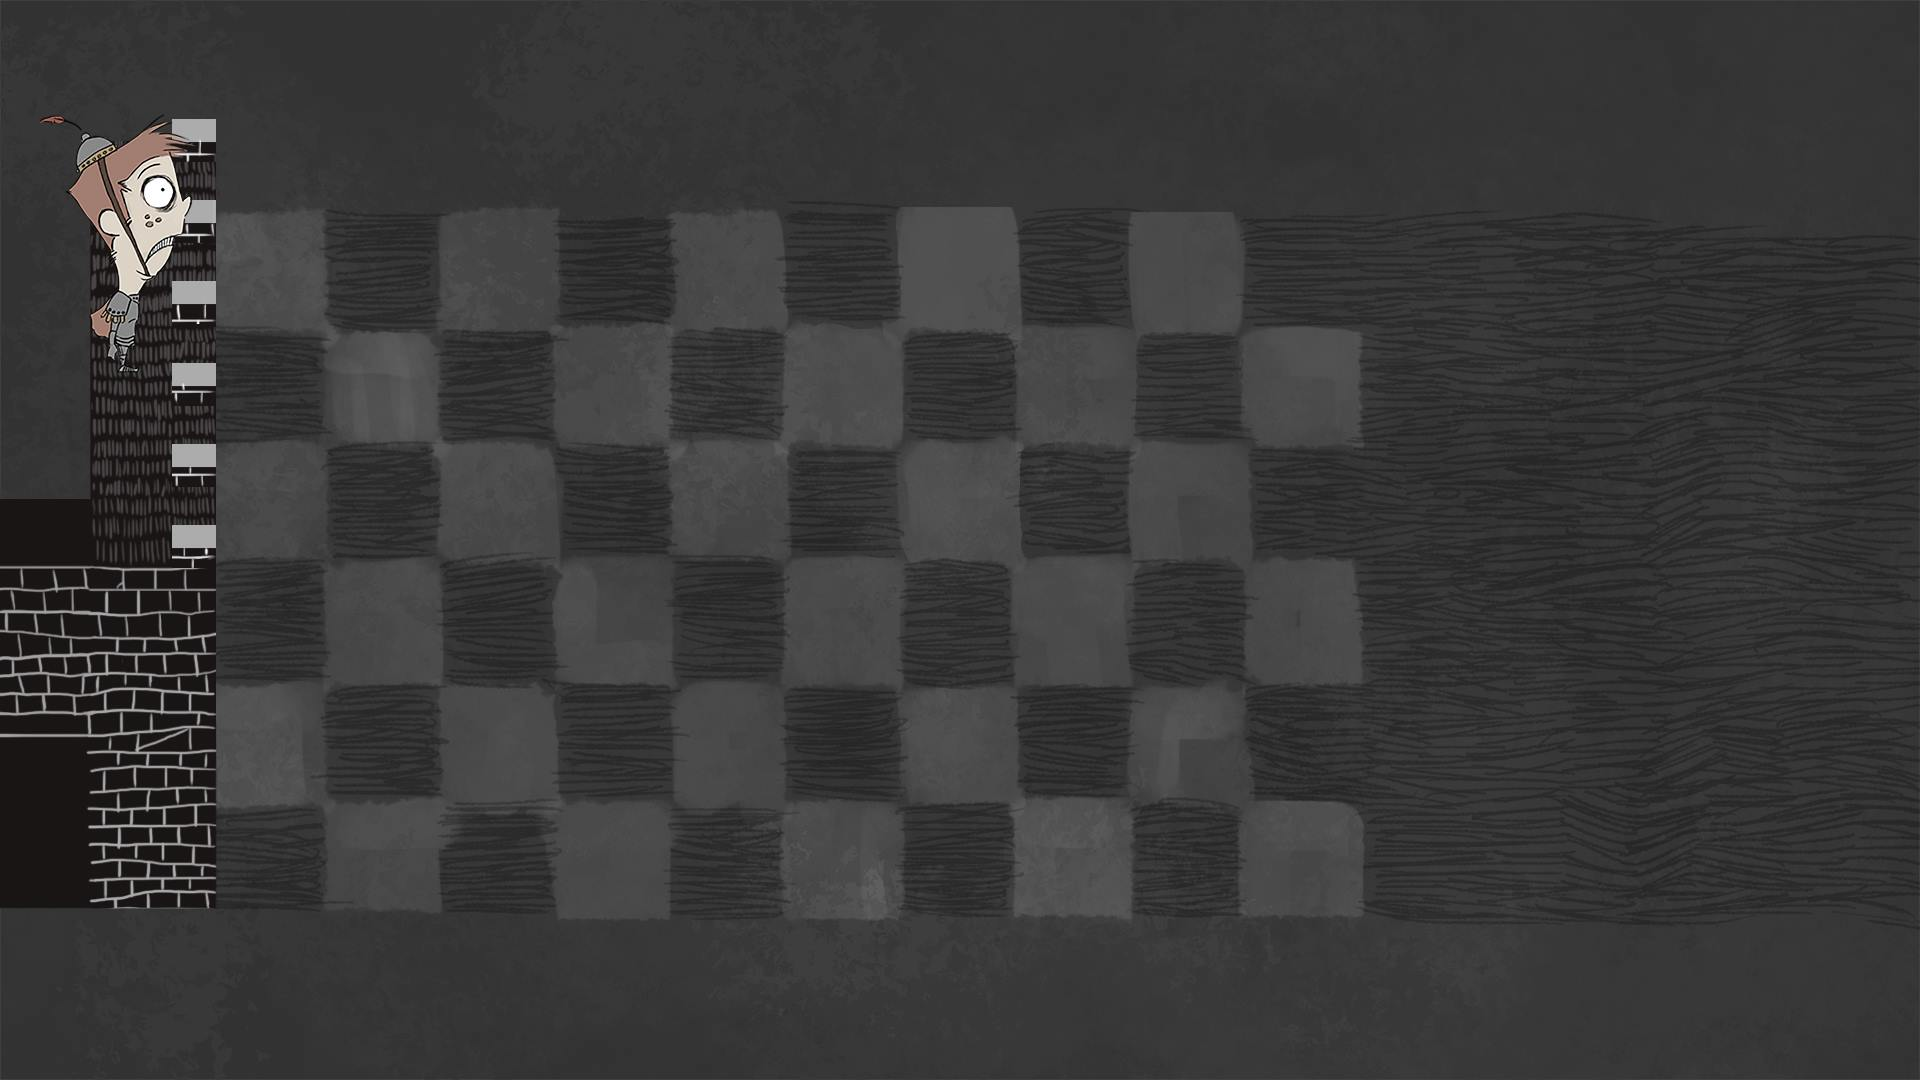
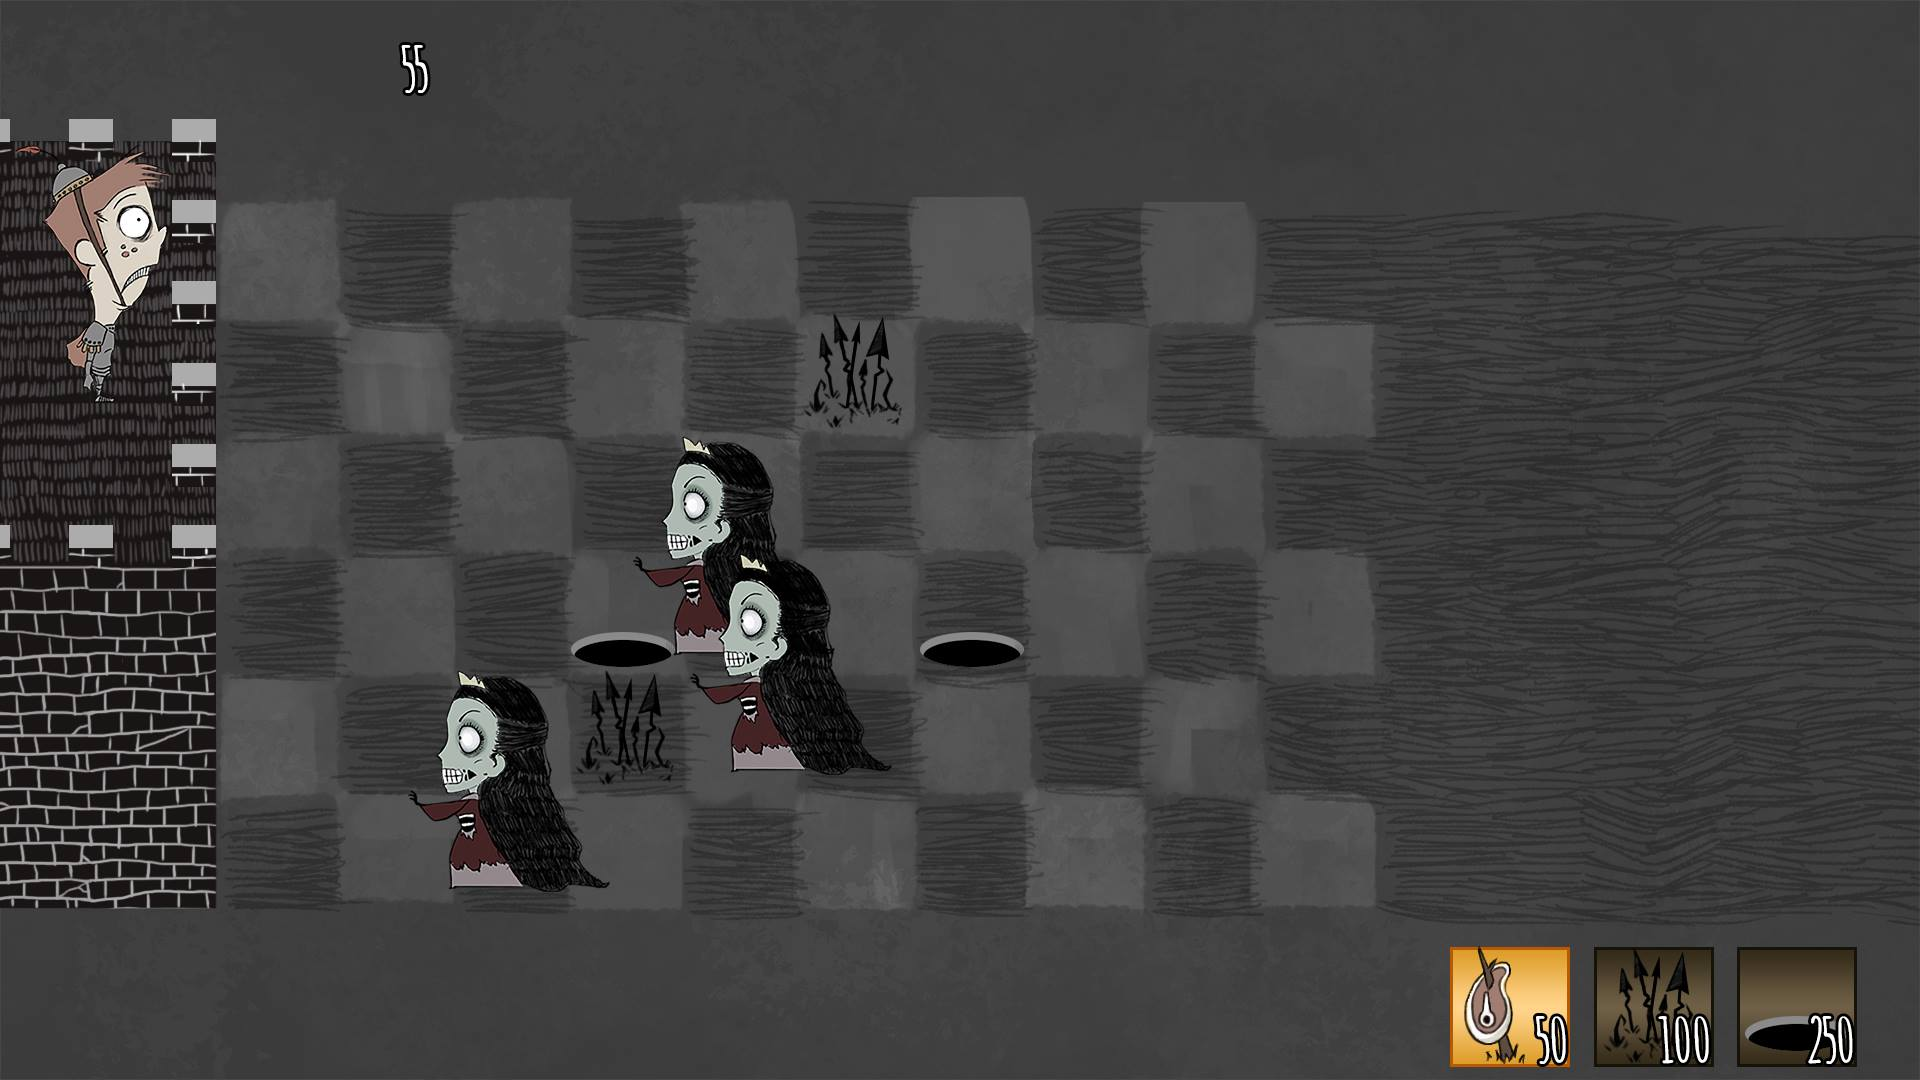
background change and colliders

diff --git a/_dev/js/custom/Trap.js b/_dev/js/custom/Trap.js
@@ -3,18 +3,18 @@ define( ['DREAM_ENGINE'], function(DE)
 	function Trap(comportement, idCase)
 	{
 		this.idCase = idCase;
-		this.width = 117 * 0.67;
-		this.heigth = 117 * 0.67;
-		this.startpos = {x: 212 * 0.67, y:209 * 0.67};
+		this.width = 117 * 0.6666666666666666666666666666666666;
+		this.heigth = 117 * 0.666666666666666666666666666666666;
+		this.startpos = {x: 212 * 0.67, y:209 * 0.6666666666666666666666666666666};
 		this.life = 100;
 
 		console.log((this.startpos.x + (this.idCase % 8) * this.width) + " " + (this.startpos.y + (Math.floor( this.idCase / 6) * this.heigth)))
 		DE.GameObject.call(this,
 		{
-	      "x": this.startpos.x + ((this.idCase % 8) * this.width),
-	      "y": this.startpos.y + (Math.floor( this.idCase / 6) * this.heigth),
+	      "x": this.startpos.x + ((this.idCase % 10) * this.width) + this.width / 3.5,
+	      "y": this.startpos.y + (Math.floor( this.idCase / 10) * this.heigth) + this.heigth / 2.3,
 	      "tag": this.comportement,
-	      "renderer": new DE.SpriteRenderer( { "spriteName": "heart", "scale": 0.9 } ),
+	      "renderer": new DE.SpriteRenderer( { "spriteName": "heart", "scale": 1 * 0.6666666666666666666 } ),
 	      "collider": new DE.CircleCollider( this.width/2 )
 	    });
 	    console.log(this.position.x + " " + this.position.y);

diff --git a/_dev/js/custom/Game.js b/_dev/js/custom/Game.js
@@ -180,8 +180,9 @@ function( DE, Player, Enemy, datas, Trap)
     Game.player.enable = false;
 
     Game.cases = new Array();
-    for (var i = 0; i < 48; i++) {
+    for (var i = 0; i < 60; i++) {
       Game.cases[i] = new Trap("normal", i);
+      Game.scene.add(Game.cases[i]);
     };
     
 
